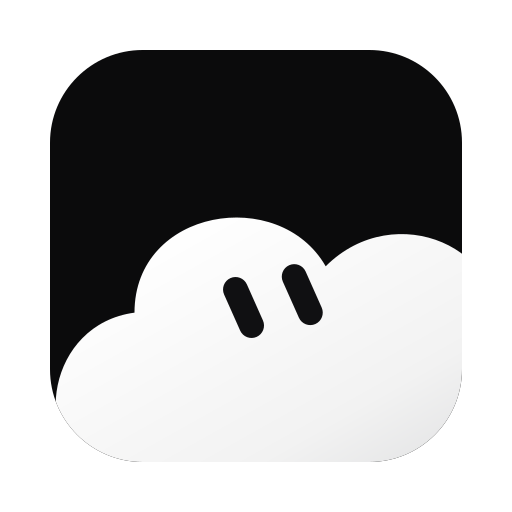
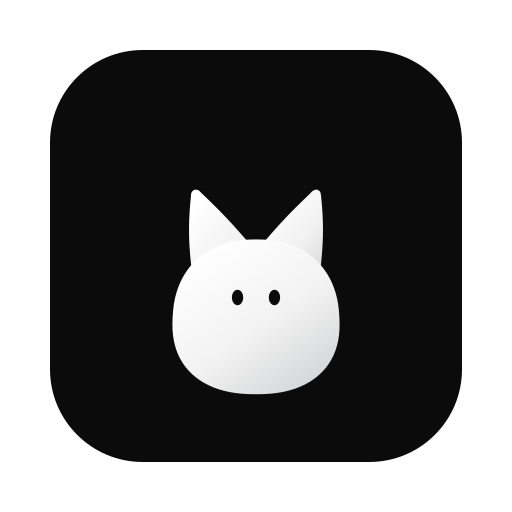
feat(mascots): BotKit shapes replace ours, with credit to Fred Bergwitz (4/4)

Changed region(s): [[0.0938, 0.375, 0.9062, 0.9062]]

diff --git a/src/lib/ready-bots.ts b/src/lib/ready-bots.ts
@@ -40,7 +40,7 @@ export const READY_BOTS: ReadyBot[] = [
       "Say plainly when you are unsure or could not check something, and never present a guess as a fact.",
       "When a task will take several steps, say what you are about to do in one line before doing it.",
     ].join("\n"),
-    look: { color: "green", mascotBody: "cursor" },
+    look: { color: "green", mascotBody: "kit" },
     tryAsking: ["Plan my week from this list of to-dos", "Explain this contract clause in plain English", "Draft a polite reply declining this meeting"],
     apps: [],
   },
@@ -57,7 +57,7 @@ export const READY_BOTS: ReadyBot[] = [
       "Never unsubscribe, delete, archive, or forward mail on your own.",
       "Note recurring senders and the user's preferences in memory so each triage gets sharper.",
     ].join("\n"),
-    look: { color: "blue", mascotBody: "shield" },
+    look: { color: "blue", mascotBody: "lop" },
     tryAsking: ["What in my inbox needs me today?", "Draft replies to the three most urgent emails", "Who have I not answered in over a week?"],
     apps: ["gmail"],
     routines: [paused("Morning inbox triage", "Triage my unread email and draft replies for anything that needs one.", "08:30", WEEKDAYS)],
@@ -74,7 +74,7 @@ export const READY_BOTS: ReadyBot[] = [
       "Never present a guess as a finding. If the evidence is thin, say so and suggest what would settle it.",
       "Keep briefs scannable: a three-line summary, then sections, then sources.",
     ].join("\n"),
-    look: { color: "purple", mascotBody: "diamond" },
+    look: { color: "purple", mascotBody: "imp" },
     tryAsking: ["What changed in EU AI rules this year? Sources please", "Compare the top three note-taking apps for a small team", "Fact-check the claims in this paragraph"],
     apps: [],
   },
@@ -90,7 +90,7 @@ export const READY_BOTS: ReadyBot[] = [
       "Run the project's tests after changes and report the real output, including failures.",
       "Explain what changed and why in a few lines. Never push, publish, or delete branches unless told to.",
     ].join("\n"),
-    look: { color: "cyan", mascotBody: "hexagon" },
+    look: { color: "cyan", mascotBody: "tuft" },
     tryAsking: ["Find why the tests fail and fix it", "Explain how this repository is organised", "Add input validation to the signup form"],
     apps: ["github"],
   },
@@ -106,7 +106,7 @@ export const READY_BOTS: ReadyBot[] = [
       "Track recurring questions in memory and say when one keeps coming back.",
       "Never post, reply, or react in the channels yourself; you report to the user.",
     ].join("\n"),
-    look: { color: "orange", mascotBody: "shield" },
+    look: { color: "orange", mascotBody: "lop" },
     tryAsking: ["What did the community ask about since yesterday?", "List open bug reports from this week", "Which question keeps coming up?"],
     apps: ["discord", "slack"],
     routines: [paused("Community digest", "Summarise what happened in my community channels since the last digest.", "17:00", WEEKDAYS)],
@@ -123,7 +123,7 @@ export const READY_BOTS: ReadyBot[] = [
       "Draft messages when a follow-up is due, but always ask before sending, booking, or changing anything.",
       "Flag clashes and days that are overbooked before they happen.",
     ].join("\n"),
-    look: { color: "yellow", mascotBody: "shield" },
+    look: { color: "yellow", mascotBody: "lop" },
     tryAsking: ["What's on today, and what's overdue?", "Find an hour for deep work this week", "Which follow-ups am I late on?"],
     apps: ["googlecalendar", "notion", "linear"],
     routines: [paused("Daily plan", "Give me today's commitments, anything overdue, and the next action for each.", "08:00", WEEKDAYS)],
@@ -141,7 +141,7 @@ export const READY_BOTS: ReadyBot[] = [
       "When editing, return the improved text first, then a short list of the main changes.",
       "Learn the user's voice: note words they like and avoid in memory, and follow them.",
     ].join("\n"),
-    look: { color: "pink", mascotBody: "circle" },
+    look: { color: "pink", mascotBody: "bun" },
     tryAsking: ["Turn these notes into a LinkedIn post", "Tighten this email to half its length", "Write three subject lines for this newsletter"],
     apps: [],
   },
@@ -158,7 +158,7 @@ export const READY_BOTS: ReadyBot[] = [
       "Never invent data. If a question cannot be answered from the data, say what is missing.",
       "Call out outliers and caveats that could change the conclusion.",
     ].join("\n"),
-    look: { color: "teal", mascotBody: "circle" },
+    look: { color: "teal", mascotBody: "bun" },
     tryAsking: ["What are the top 10 customers by revenue in this CSV?", "Show the monthly trend and anything unusual", "Find duplicate rows in this export"],
     apps: [],
   },
@@ -174,7 +174,7 @@ export const READY_BOTS: ReadyBot[] = [
       "Quote people only when the transcript says it; never invent quotes, owners, or dates. Mark anything uncertain with (unclear).",
       "Offer to draft the follow-up message, and never send it yourself.",
     ].join("\n"),
-    look: { color: "coral", mascotBody: "shield" },
+    look: { color: "coral", mascotBody: "lop" },
     tryAsking: ["Summarise this transcript into decisions and action items", "Draft the follow-up email from these notes", "What did we leave unresolved?"],
     apps: [],
   },
@@ -191,7 +191,7 @@ export const READY_BOTS: ReadyBot[] = [
       "Keep the user's travel preferences in memory/travel.md and use them every time.",
       "Never book or pay for anything; give links and options instead.",
     ].join("\n"),
-    look: { color: "blue", mascotBody: "star" },
+    look: { color: "blue", mascotBody: "hare" },
     tryAsking: ["Plan four relaxed days in Lisbon in May", "What should I book now for a Japan trip in autumn?", "Make a packing list for a rainy week in Scotland"],
     apps: ["googlecalendar"],
     notes: {
@@ -211,7 +211,7 @@ export const READY_BOTS: ReadyBot[] = [
       "Keep a list of weak topics in memory/study.md and suggest reviewing them.",
       "Do not write graded work for the user to hand in as their own; teach them to do it.",
     ].join("\n"),
-    look: { color: "purple", mascotBody: "cursor" },
+    look: { color: "purple", mascotBody: "kit" },
     tryAsking: ["Explain recursion like I'm new to programming", "Quiz me on the French Revolution", "Make a one-week revision plan for my exam"],
     apps: [],
     notes: {
@@ -231,7 +231,7 @@ export const READY_BOTS: ReadyBot[] = [
       "Reply with the rewritten text first, then a short list of changes, each with the reason (for example: cut a cliché, split a long sentence).",
       "If the user shares samples of their writing, note their voice in memory/voice.md and match it.",
     ].join("\n"),
-    look: { color: "pink", mascotBody: "cursor" },
+    look: { color: "pink", mascotBody: "kit" },
     tryAsking: ["Make this email sound less robotic", "Rewrite this landing page intro in my voice", "Here are three posts I wrote; learn my style"],
     apps: [],
     notes: {
@@ -251,7 +251,7 @@ export const READY_BOTS: ReadyBot[] = [
       "Check text contrast against WCAG AA and say which elements fail.",
       "End with the two or three things that already work well, so they survive the next round.",
     ].join("\n"),
-    look: { color: "red", mascotBody: "diamond" },
+    look: { color: "red", mascotBody: "imp" },
     tryAsking: ["Critique this landing page screenshot", "What would make this dashboard easier to scan?", "Check this mobile screen for accessibility problems"],
     apps: ["figma"],
   },
@@ -268,7 +268,7 @@ export const READY_BOTS: ReadyBot[] = [
       "Finish with the three changes that would help most on the next call, each with an example line the rep could say.",
       "Keep recurring patterns for each rep in memory so coaching builds over time.",
     ].join("\n"),
-    look: { color: "orange", mascotBody: "star" },
+    look: { color: "orange", mascotBody: "hare" },
     tryAsking: ["Score this discovery call transcript", "How did I handle the pricing objection?", "What should I ask differently next time?"],
     apps: ["gong", "hubspot"],
   },
@@ -285,7 +285,7 @@ export const READY_BOTS: ReadyBot[] = [
       "On the weekly check, list which plants are due or overdue, and one seasonal tip if it is useful.",
       "When the user describes or shows a struggling plant, suggest the most likely causes in order and one thing to try first.",
     ].join("\n"),
-    look: { color: "green", mascotBody: "circle" },
+    look: { color: "green", mascotBody: "bun" },
     tryAsking: ["Add my monstera: living room, bright indirect light", "I watered the fern and the pothos today", "Why are my snake plant's leaves going yellow?"],
     apps: [],
     notes: {

diff --git a/src/components/BotProfileAvatarCard.test.ts b/src/components/BotProfileAvatarCard.test.ts
@@ -51,15 +51,15 @@ describe("BotProfileAvatarCard body picker", () => {
   it("marks the current body pressed and the rest unpressed, defaulting to cursor", () => {
     const markup = renderCard(makeBot());
 
-    expect(markup).toContain(`aria-pressed="true" aria-label="Use the ${MASCOT_BODIES.cursor.name} body"`);
-    expect(markup).toContain(`aria-pressed="false" aria-label="Use the ${MASCOT_BODIES.star.name} body"`);
+    expect(markup).toContain(`aria-pressed="true" aria-label="Use the ${MASCOT_BODIES.kit.name} body"`);
+    expect(markup).toContain(`aria-pressed="false" aria-label="Use the ${MASCOT_BODIES.hare.name} body"`);
   });
 
   it("reflects an explicitly chosen body", () => {
-    const markup = renderCard(makeBot({ mascotBody: "star" }));
+    const markup = renderCard(makeBot({ mascotBody: "hare" }));
 
-    expect(markup).toContain(`aria-pressed="true" aria-label="Use the ${MASCOT_BODIES.star.name} body"`);
-    expect(markup).toContain(`aria-pressed="false" aria-label="Use the ${MASCOT_BODIES.cursor.name} body"`);
+    expect(markup).toContain(`aria-pressed="true" aria-label="Use the ${MASCOT_BODIES.hare.name} body"`);
+    expect(markup).toContain(`aria-pressed="false" aria-label="Use the ${MASCOT_BODIES.kit.name} body"`);
   });
 
   it("offers zoom and drag framing for a custom image", () => {
@@ -83,7 +83,7 @@ describe("BotProfileAvatarCard body picker", () => {
     const markup = renderCard(makeBot({ avatarCrop: "circle" }));
 
     expect(markup).not.toContain(">Body<");
-    expect(markup).not.toContain(`aria-label="Use the ${MASCOT_BODIES.cursor.name} body"`);
+    expect(markup).not.toContain(`aria-label="Use the ${MASCOT_BODIES.kit.name} body"`);
   });
 
   it("hides the body picker for every flat crop, not just circle", () => {

diff --git a/src/components/bot-panel/AvatarEditorCard.tsx b/src/components/bot-panel/AvatarEditorCard.tsx
@@ -44,7 +44,7 @@ export function AvatarEditorCard({ bot, activeState, onPatch, onClose }: {
     cardRef.current?.querySelector<HTMLElement>("button:not([disabled])")?.focus();
   }, []);
   const pickMascot = (patch: AvatarPatch) => onPatch(crop === "mascot" ? patch : { ...patch, avatarCrop: "mascot" });
-  const body = bot.mascotBody ?? "cursor";
+  const body = bot.mascotBody ?? "kit";
   const [moreLooks, setMoreLooks] = useState(() => Boolean(bot.mascotExpression && bot.mascotExpression !== "idle"));
   const bodyButton = (id: BotBodyId, name: string) => (
     <button
@@ -98,6 +98,12 @@ export function AvatarEditorCard({ bot, activeState, onPatch, onClose }: {
             <div className="grid grid-cols-5 gap-1.5">
               {MASCOT_BODY_IDS.map((id) => bodyButton(id, MASCOT_BODIES[id].name))}
             </div>
+            <p className="mt-2 text-center text-[11px] leading-4 text-ink-tertiary">
+              {t("botPanel.avatar.credit")}{" "}
+              <a href="https://x.com/FredBergwitz" target="_blank" rel="noreferrer" className="underline hover:text-ink">
+                Fred Bergwitz
+              </a>
+            </p>
             <div className="flex flex-wrap justify-center gap-2 px-1 pb-1 pt-3.5">
               {MAUS_COLOR_NAMES.map((color) => (
                 <button

diff --git a/src/components/MausBotWelcome.test.ts b/src/components/MausBotWelcome.test.ts
@@ -23,7 +23,7 @@ describe("MausBot's first-launch welcome", () => {
   });
 
   it("Add saves the person's changes, pins MausBot and keeps it in the sidebar", () => {
-    expect(welcomePatch(maus, { ...draftOf(maus), name: " Jarvis ", color: "blue", mascotBody: "cursor" }, true))
+    expect(welcomePatch(maus, { ...draftOf(maus), name: " Jarvis ", color: "blue", mascotBody: "kit" }, true))
       .toEqual({ name: "Jarvis", color: "blue", welcomed: true, sidebarHidden: false, pinned: true });
   });
 
@@ -33,7 +33,7 @@ describe("MausBot's first-launch welcome", () => {
 
   it("Not now turns Show MausBot in the sidebar off, keeping what was changed, and nothing unchanged is sent", () => {
     expect(welcomePatch(maus, draftOf(maus), false)).toEqual({ welcomed: true, sidebarHidden: true });
-    expect(welcomePatch(maus, { ...draftOf(maus), mascotBody: "star" }, false)).toEqual({ mascotBody: "star", welcomed: true, sidebarHidden: true });
+    expect(welcomePatch(maus, { ...draftOf(maus), mascotBody: "hare" }, false)).toEqual({ mascotBody: "hare", welcomed: true, sidebarHidden: true });
   });
 
   it("saves an empty name as MausBot and caps a long one at the bot-name limit", () => {

diff --git a/src/components/MausBotCustomize.tsx b/src/components/MausBotCustomize.tsx
@@ -64,12 +64,12 @@ export function MausBotCustomize({ preview, name, nameRef, image, onName, onPatc
             <button
               key={id}
               type="button"
-              aria-pressed={!picture && (preview.mascotBody ?? "cursor") === id}
+              aria-pressed={!picture && (preview.mascotBody ?? "kit") === id}
               aria-label={MASCOT_BODIES[id].name}
               title={MASCOT_BODIES[id].name}
               data-mausbot-welcome-body={id}
               onClick={() => shape({ mascotBody: id })}
-              className={cn("flex h-11 items-center justify-center rounded-xl", !picture && (preview.mascotBody ?? "cursor") === id ? "bg-ink/[0.08] ring-[1.5px] ring-inset ring-ink/25" : "hover:bg-ink/[0.05]")}
+              className={cn("flex h-11 items-center justify-center rounded-xl", !picture && (preview.mascotBody ?? "kit") === id ? "bg-ink/[0.08] ring-[1.5px] ring-inset ring-ink/25" : "hover:bg-ink/[0.05]")}
             >
               <MausAvatar color={preview.color} bodyId={id} size={30} animated={false} trackPointer={false} />
             </button>

diff --git a/src/components/Avatar.test.ts b/src/components/Avatar.test.ts
@@ -21,19 +21,19 @@ const renderBot = (bot: Partial<BotAvatarProps["bot"]>) =>
 
 describe("MausAvatar body", () => {
   it("wears the cursor when no body is given", () => {
-    expect(render({})).toContain(MASCOT_BODIES.cursor.fit);
+    expect(render({})).toContain(MASCOT_BODIES.kit.fit);
   });
 
   it("wears the body it is given", () => {
     const markup = render({ bodyId: "star" });
-    expect(markup).toContain(MASCOT_BODIES.star.fit);
+    expect(markup).toContain(MASCOT_BODIES.hare.fit);
   });
 
   it("falls back to the cursor for an unknown body", () => {
     // SAFETY: "hexagram" is deliberately not a MascotBodyId, to exercise the runtime fallback for persisted or streamed
     // data.
     expect(render({ bodyId: "hexagram" as MausAvatarProps["bodyId"] })).toContain(
-      MASCOT_BODIES.cursor.fit,
+      MASCOT_BODIES.kit.fit,
     );
   });
 

diff --git a/server/team-backup.test.ts b/server/team-backup.test.ts
@@ -24,7 +24,7 @@ function fixture() {
   });
   const chief = store.createBot({ name: "Mira", section: "Engineering", description: "Full instructions\n".repeat(400) }, { seedMessages: false });
   store.setSoul(chief.id, "  Cite sources.\nRespect the user's current request. 🐭\n");
-  const scout = store.createBot({ name: "Scout", section: "Engineering", mascotBody: "circle" }, { seedMessages: false });
+  const scout = store.createBot({ name: "Scout", section: "Engineering", mascotBody: "bun" }, { seedMessages: false });
   const otherChief = store.createBot({ name: "Ava", section: "Operations" }, { seedMessages: false });
   const archived = store.createBot({ name: "Archived" }, { seedMessages: false });
   store.patchBot(archived.id, { hidden: true });

diff --git a/src/components/MausBotWelcome.tsx b/src/components/MausBotWelcome.tsx
@@ -26,7 +26,7 @@ const EASE = "cubic-bezier(0.22, 1, 0.36, 1)";
 export const welcomeName = (name: string): string => name.trim().slice(0, BOT_PROFILE_LIMITS.name) || DEFAULT_BOT_NAME;
 
 export function draftOf(bot: Bot): WelcomeDraft {
-  return { name: bot.name, color: bot.color, mascotBody: bot.mascotBody ?? "cursor", avatarUrl: bot.avatarUrl ?? null,
+  return { name: bot.name, color: bot.color, mascotBody: bot.mascotBody ?? "kit", avatarUrl: bot.avatarUrl ?? null,
     avatarCrop: bot.avatarCrop ?? "mascot", avatarZoom: bot.avatarZoom, avatarFocusX: bot.avatarFocusX, avatarFocusY: bot.avatarFocusY };
 }
 

diff --git a/src/lib/ready-bots.test.ts b/src/lib/ready-bots.test.ts
@@ -52,7 +52,7 @@ describe("readyBotTemplate", () => {
 
   it("sets who the bot is and how it looks", () => {
     const { profile } = readyBotTemplate(defaults(), plant);
-    expect(profile).toMatchObject({ name: "Fern", title: "Plant care log", soul: plant.soul, color: "green", mascotBody: "circle" });
+    expect(profile).toMatchObject({ name: "Fern", title: "Plant care log", soul: plant.soul, color: "green", mascotBody: "bun" });
   });
 
   it("never changes the person's model, approval level, computer, folder or apps", () => {

diff --git a/src/components/avatar-editing.tsx b/src/components/avatar-editing.tsx
@@ -15,7 +15,7 @@ export type AvatarPatch = Partial<
   Pick<Bot, "avatarCrop" | "avatarUrl" | "avatarZoom" | "avatarFocusX" | "avatarFocusY" | "color" | "mascotExpression" | "mascotBody">
 >;
 
-export const RESET_MASCOT_PATCH: AvatarPatch = { avatarCrop: "mascot", color: "green", mascotExpression: null, mascotBody: "cursor" };
+export const RESET_MASCOT_PATCH: AvatarPatch = { avatarCrop: "mascot", color: "green", mascotExpression: null, mascotBody: "kit" };
 
 export const CROP_LABEL = {
   mascot: "Mascot",

diff --git a/server/bot-profile.test.ts b/server/bot-profile.test.ts
@@ -99,9 +99,9 @@ describe("parseBotProfilePatch (both modes)", () => {
 
 describe("mascotBody", () => {
   it("accepts a known body", () => {
-    expect(parseBotProfilePatch({ mascotBody: "circle" } as never, true)).toEqual({
+    expect(parseBotProfilePatch({ mascotBody: "bun" } as never, true)).toEqual({
       ok: true,
-      patch: { mascotBody: "circle" },
+      patch: { mascotBody: "bun" },
     });
   });
 

diff --git a/src/components/CursorAvatar.tsx b/src/components/CursorAvatar.tsx
@@ -42,7 +42,7 @@ export interface CursorSilhouette {
   anchor: { x: number; y: number; scale: number }
 }
 
-const { id: _cursorBodyId, ...cursorSilhouette } = MASCOT_BODIES.cursor;
+const { id: _cursorBodyId, ...cursorSilhouette } = MASCOT_BODIES.kit;
 export const DEFAULT_SILHOUETTE: CursorSilhouette = cursorSilhouette;
 
 export const DEFAULT_GRADIENT: [string, string, string] = ["#9FE6B5","#3FAE6E","#1C7A4C"]
